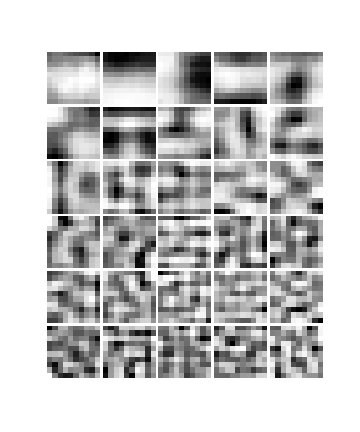
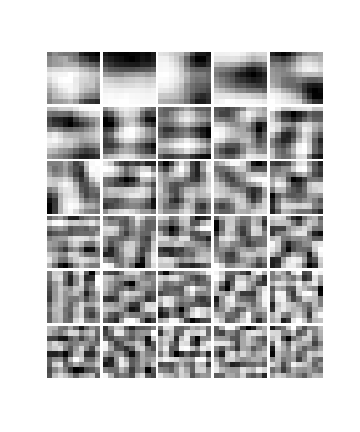
fixed bug in dict plot generator

diff --git a/utils/dictionary_generation.py b/utils/dictionary_generation.py
@@ -155,7 +155,7 @@ def generateDictionaryPlots(images, patch_size, num_samples, num_features, s=1, 
 		name = alg_names[i]
 		for f in num_features:
 			features = alg(images, patch_size, num_samples, f)
-
+			f = features.shape[0]
 			rows = int(np.ceil(f/cols))
 			fig = plt.figure(figsize=(cols*s, s*rows))
 			gs = gridspec.GridSpec(rows, cols)
